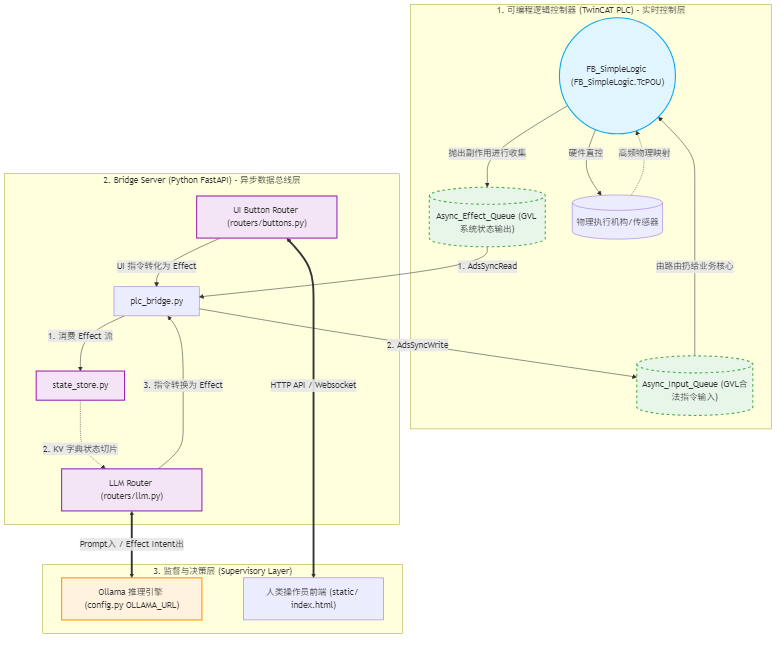
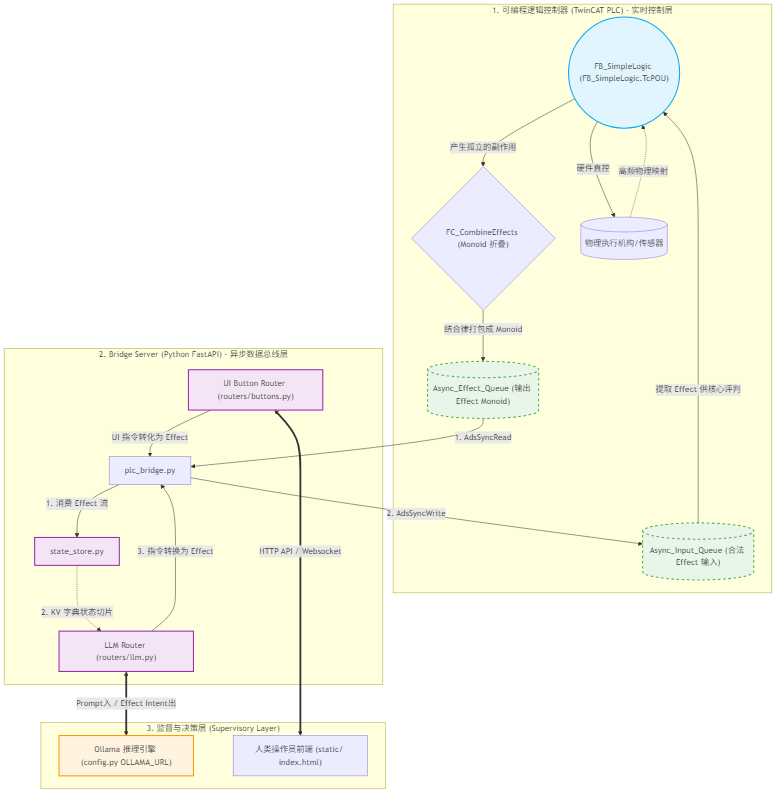
refactor: Introduce Monoid folding for side-effect combining and clarify effect handling in the PLC architecture.

Changed region(s): [[0.0, 0.0, 1.0, 0.9922], [0.8265, 0.4651, 0.949, 0.4961], [0.8265, 0.4031, 0.949, 0.4341]]

diff --git a/MonoPLC_LLM_Monoid_Architecture_EN.md b/MonoPLC_LLM_Monoid_Architecture_EN.md
@@ -15,14 +15,16 @@ flowchart TD
     subgraph Layer_PLC ["1. Programmable Logic Controller (TwinCAT PLC) - Real-time Control Layer"]
         direction TB
         SafeCore(("FB_SimpleLogic\n(POUs/PLCLogic/FB_SimpleLogic.TcPOU)"))
-        AsyncOut[("Async_Effect_Queue\n(GVL System State Output)")]
-        AsyncIn[("Async_Input_Queue\n(GVL Legal Command Input)")]
+        MonoidMerge{"FC_CombineEffects\n(Monoid Folding)"}
+        AsyncOut[("Async_Effect_Queue\n(Output Effect Monoid)")]
+        AsyncIn[("Async_Input_Queue\n(Legal Effect Input)")]
         Hardware[(Physical Actuators/Sensors)]
         
         Hardware -.->|High-frequency physical mapping| SafeCore
         SafeCore -->|Direct hardware control| Hardware
-        SafeCore -->|Emit side-effects for collection| AsyncOut
-        AsyncIn -->|Router passes to business core| SafeCore
+        SafeCore -->|Yields isolated side-effects| MonoidMerge
+        MonoidMerge -->|Associative packaging to Monoid| AsyncOut
+        AsyncIn -->|Extract Effect for core logic| SafeCore
     end
 
     %% Middleware Bus Layer

diff --git a/MonoPLC_LLM_Monoid_Architecture.md b/MonoPLC_LLM_Monoid_Architecture.md
@@ -15,14 +15,16 @@ flowchart TD
     subgraph Layer_PLC ["1. 可编程逻辑控制器 (TwinCAT PLC) - 实时控制层"]
         direction TB
         SafeCore(("FB_SimpleLogic (FB_SimpleLogic.TcPOU)"))
-        AsyncOut[("Async_Effect_Queue (GVL 系统状态输出)")]
-        AsyncIn[("Async_Input_Queue (GVL合法指令输入)")]
+        MonoidMerge{"FC_CombineEffects (Monoid 折叠)"}
+        AsyncOut[("Async_Effect_Queue (输出 Effect Monoid)")]
+        AsyncIn[("Async_Input_Queue (合法 Effect 输入)")]
         Hardware[(物理执行机构/传感器)]
         
         Hardware -.->|高频物理映射| SafeCore
         SafeCore -->|硬件直控| Hardware
-        SafeCore -->|抛出副作用进行收集| AsyncOut
-        AsyncIn -->|由路由扔给业务核心| SafeCore
+        SafeCore -->|产生孤立的副作用| MonoidMerge
+        MonoidMerge -->|结合律打包成 Monoid| AsyncOut
+        AsyncIn -->|提取 Effect 供核心评判| SafeCore
     end
 
     %% 中间件层
